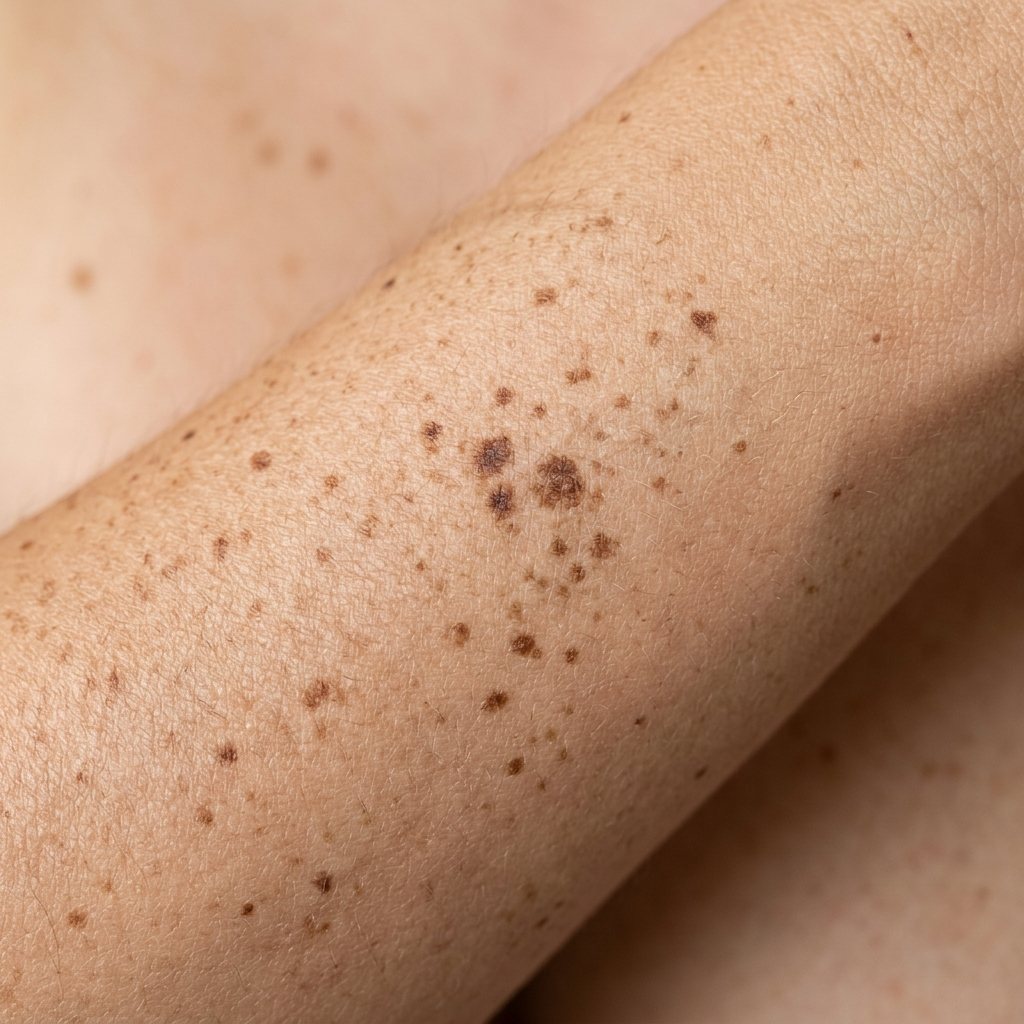
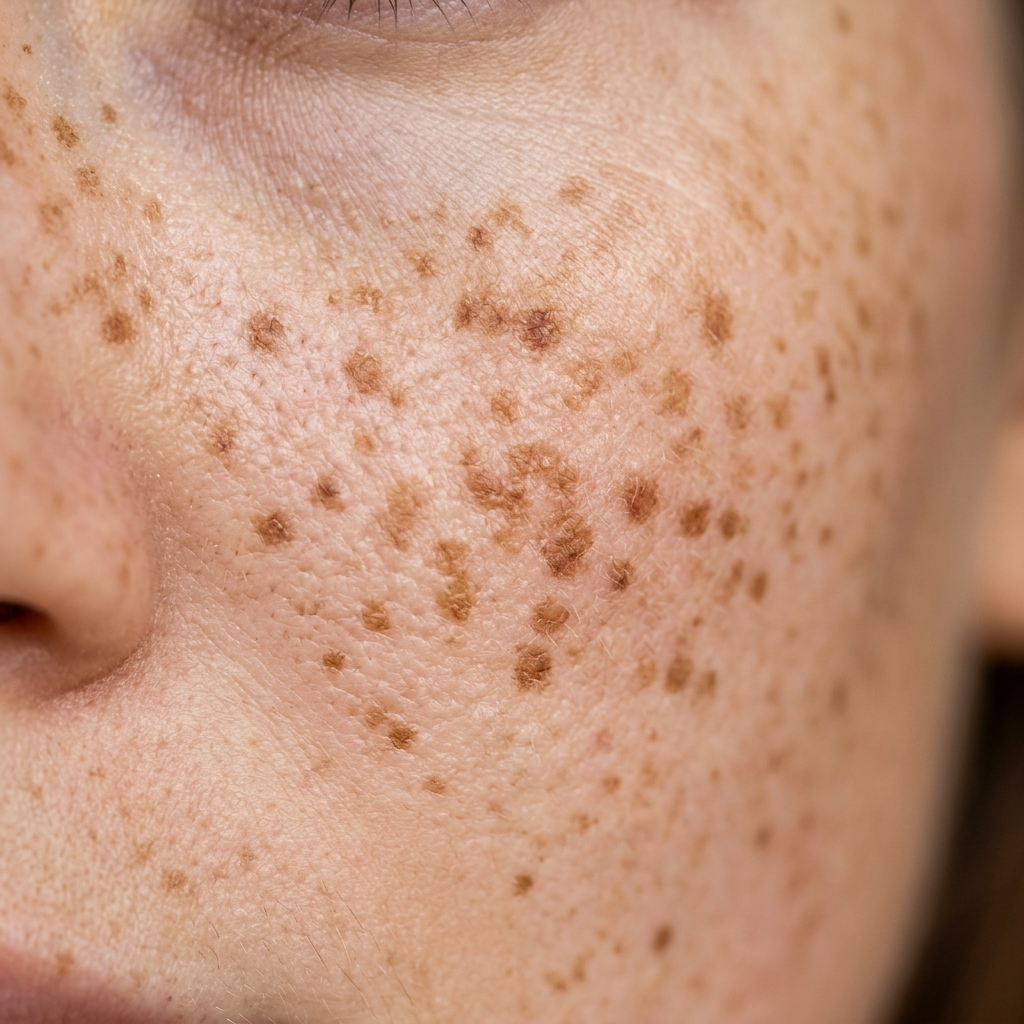
social login by firebase token added

diff --git a/detection/pipeline.py b/detection/pipeline.py
@@ -60,8 +60,8 @@ def sanitize_image_bytes(content: bytes) -> tuple[bytes, str]:
 def _skin_mask(image: np.ndarray) -> np.ndarray:
     """Conservative YCrCb mask; false negatives are safer than background FPs."""
     ycrcb = cv2.cvtColor(image, cv2.COLOR_BGR2YCrCb)
-    lower = np.array([0, 130, 70], dtype=np.uint8)
-    upper = np.array([255, 180, 135], dtype=np.uint8)
+    lower = np.array([0, 120, 60], dtype=np.uint8)
+    upper = np.array([255, 190, 145], dtype=np.uint8)
     mask = cv2.inRange(ycrcb, lower, upper)
     kernel = cv2.getStructuringElement(cv2.MORPH_ELLIPSE, (9, 9))
     return cv2.morphologyEx(mask, cv2.MORPH_CLOSE, kernel)
@@ -109,7 +109,7 @@ def detect_image(path: str | Path, *, max_points: int = 150, skip_nn: bool = Fal
         min_sigma=2,
         max_sigma=min(24, max(4, min(width, height) / 16)),
         sigma_ratio=1.6,
-        threshold=0.02, # Lowered from 0.06 to be more sensitive to lower-contrast freckles
+        threshold=0.01, # Lowered from 0.02 to be more sensitive to lower-contrast freckles
         overlap=0.1,
     )
 
@@ -135,12 +135,11 @@ def detect_image(path: str | Path, *, max_points: int = 150, skip_nn: bool = Fal
         if y2 - y1 < 3 or x2 - x1 < 3: # Too small to analyze
             continue
             
-        # Hue gate
-        patch_hsv = cv2.cvtColor(image_no_hair[y1:y2, x1:x2], cv2.COLOR_BGR2HSV)
-        mean_hue = np.median(patch_hsv[:,:,0])
-        # Reject reds (pimples/irritation)
-        if mean_hue < 5 or mean_hue > 170:
-            continue
+        # Hue gate (Relaxed to allow reddish-brown freckles)
+        # patch_hsv = cv2.cvtColor(image_no_hair[y1:y2, x1:x2], cv2.COLOR_BGR2HSV)
+        # mean_hue = np.median(patch_hsv[:,:,0])
+        # if mean_hue < 5 or mean_hue > 170:
+        #     continue
             
         # Shape metrics (Circularity and Convexity)
         local_signal = signal[y1:y2, x1:x2]
@@ -169,14 +168,14 @@ def detect_image(path: str | Path, *, max_points: int = 150, skip_nn: bool = Fal
         convexity = area / hull_area
         
         # Reject non-circular or non-convex spots (like scars)
-        if circularity < 0.4 or convexity < 0.7:
+        if circularity < 0.2 or convexity < 0.5:
             continue
             
         local = signal[max(0, yi - 2):yi + 3, max(0, xi - 2):xi + 3]
         score = float(np.clip(local.mean() / 255.0, 0.0, 1.0))
         
         # Only keep clearly visible, high-contrast spots
-        if score >= 0.05: # Lowered from 0.15 to allow softer freckles
+        if score >= 0.02: # Lowered from 0.05 to allow softer freckles
             points.append(DetectedPoint(float(x), float(y), radius, score))
 
     # Distance-based NMS to merge close double detections
@@ -232,7 +231,7 @@ def detect_image(path: str | Path, *, max_points: int = 150, skip_nn: bool = Fal
                 probs = exp_out / exp_out.sum()
                 freckle_prob = float(probs[1])
                 
-                if freckle_prob > 0.4: # 40% confidence threshold (lowered from 50% to keep more valid freckles)
+                if freckle_prob > 0.2: # 20% confidence threshold (lowered from 40% to keep more valid freckles)
                     # You could also update the score here if desired
                     final_points.append(filtered_points[i])
         else:

diff --git a/app/services/user_service.py b/app/services/user_service.py
@@ -212,46 +212,42 @@ class UserService:
         }
 
     def socialLogin(self, payload: dict) -> dict:
-        provider = payload.get("provider")
+        # Note: 'token' should now be the Firebase ID Token from the client
         token = payload.get("token")
         
         email = None
         name = None
         provider_id = None
+        provider = None
         
         try:
-            if provider == "google":
-                google_client_id = getattr(settings, "GOOGLE_CLIENT_ID", "")
-                idinfo = id_token.verify_oauth2_token(
-                    token, google_requests.Request(), google_client_id
-                )
-                email = idinfo.get("email")
-                name = idinfo.get("name")
-                provider_id = idinfo.get("sub")
+            from firebase_admin import auth
+            decoded_token = auth.verify_id_token(token)
             
-            elif provider == "apple":
-                decoded = jwt.decode(token, options={"verify_signature": False})
-                email = decoded.get("email")
-                name = payload.get("name") or "Apple User" 
-                provider_id = decoded.get("sub")
-                
-            elif provider == "facebook":
-                url = f"https://graph.facebook.com/me?access_token={token}&fields=id,name,email"
-                response = httpx.get(url)
-                data = response.json()
-                if "error" in data:
-                    raise ValueError(data["error"]["message"])
-                email = data.get("email")
-                name = data.get("name")
-                provider_id = data.get("id")
+            email = decoded_token.get("email")
+            name = decoded_token.get("name")
+            provider_id = decoded_token.get("uid")
+            
+            # Identify which provider the user used to sign into Firebase
+            firebase_info = decoded_token.get("firebase", {})
+            sign_in_provider = firebase_info.get("sign_in_provider")
+            
+            if sign_in_provider == "google.com":
+                provider = "google"
+            elif sign_in_provider == "apple.com":
+                provider = "apple"
+            elif sign_in_provider == "facebook.com":
+                provider = "facebook"
+            else:
+                provider = payload.get("provider", "firebase")
                 
             if not email:
-                raise ValueError("Could not extract email from social provider")
+                raise ValueError("Could not extract email from Firebase token")
                 
         except Exception as e:
             raise HTTPException(
                 status_code=status.HTTP_401_UNAUTHORIZED,
-                detail=f"Invalid social token: {str(e)}"
+                detail=f"Invalid Firebase token: {str(e)}"
             )
 
         user = self.db.query(User).filter(User.email == email).first()
@@ -260,7 +256,7 @@ class UserService:
             base_username = email.split("@")[0]
             
             user = User(
-                user_type=3,
+                role_id=3,
                 name=name,
                 email=email,
                 user_name=base_username,

diff --git a/app/api/routes/auth.py b/app/api/routes/auth.py
@@ -39,7 +39,13 @@ def update_profile(
 def forget_password(user_in: UserForgetPasswordOtp, user_service: UserService = Depends()):
     return user_service.forgetPasswordOtp(user_in.model_dump(by_alias=True))
 
-@router.post("/social-login", response_model=UserResponseWithToken, status_code=status.HTTP_200_OK)
+@router.post(
+    "/social-login", 
+    response_model=UserResponseWithToken, 
+    status_code=status.HTTP_200_OK,
+    summary="Login or Register using Firebase Social Authentication",
+    description="Authenticate a user using a Firebase ID Token. The token is obtained on the client side via the Firebase SDK (e.g. `user.getIdToken()`). The backend verifies this token, automatically infers the social provider (Google, Apple, Facebook), and logs the user in (or registers them if they do not exist)."
+)
 def social_login(user_in: SocialLoginRequest, user_service: UserService = Depends()):
     return user_service.socialLogin(user_in.model_dump(by_alias=True))
 

diff --git a/app/schemas/user.py b/app/schemas/user.py
@@ -34,10 +34,18 @@ class AuthProvider(str, Enum):
     facebook = "facebook"
 
 class SocialLoginRequest(BaseModel):
-    provider: AuthProvider = Field(..., description="The social provider being used")
-    token: str = Field(..., description="The identity token from the provider")
+    provider: Optional[AuthProvider] = Field(default=None, description="The social provider being used (optional, inferred from token)")
+    token: str = Field(..., description="The Firebase ID token retrieved from the client SDK (e.g. user.getIdToken())")
     
-    model_config = ConfigDict(alias_generator=to_camel, populate_by_name=True)
+    model_config = ConfigDict(
+        alias_generator=to_camel, 
+        populate_by_name=True,
+        json_schema_extra={
+            "example": {
+                "token": "eyJhbGciOiJSUzI1NiIs..."
+            }
+        }
+    )
 
 class UserForgetPassword(BaseModel):
     email: EmailStr = Field(..., description="User's email address")

diff --git a/test_db.py b/test_db.py
@@ -1,0 +1,24 @@
+from app.db import SessionLocal
+from app.models.analysis_run import AnalysisRun
+from app.models.point_set import PointSet
+from app.models.match import Match
+from app.models.detection import Detection
+
+db = SessionLocal()
+
+print("--- Recent Analysis Runs ---")
+runs = db.query(AnalysisRun).order_by(AnalysisRun.id.desc()).limit(5).all()
+for run in runs:
+    print(f"\nAnalysis ID: {run.id}, Upload ID: {run.upload_id}, Status: {run.status}")
+    
+    ps = db.query(PointSet).filter(PointSet.upload_id == run.upload_id).first()
+    if ps:
+        print(f"  PointSet: N_points: {ps.n_points}")
+    else:
+        print("  PointSet: None")
+        
+    m = db.query(Match).filter(Match.upload_id == run.upload_id).first()
+    if m:
+        print(f"  Match: ID: {m.id}, Confidence: {m.confidence_pct}")
+    else:
+        print("  Match: None")

diff --git a/workers/tasks/analysis_tasks.py b/workers/tasks/analysis_tasks.py
@@ -98,12 +98,18 @@ def process_detection_job(analysis_id: int):
             run.status = "success"
             db.commit()
             
+            return {
+                "points_detected": len(result.points),
+                "matched": len(result.points) >= 4 and bool(matches)
+            }
+            
         except Exception as e:
             db.rollback()
             run.status = "failed"
             db.commit()
             print(f"Error in detection pipeline for analysis {analysis_id}: {e}")
             traceback.print_exc()
+            return {"error": str(e)}
             
     finally:
         db.close()

diff --git a/workers/tasks/run_matching.py b/workers/tasks/run_matching.py
@@ -121,12 +121,18 @@ def process_matching_job(analysis_id: int):
             run.status = "success"
             db.commit()
             
+            return {
+                "matched": bool(matches),
+                "n_matched_stars": best_match.n_matched if matches else 0
+            }
+            
         except Exception as e:
             db.rollback()
             run.status = "failed"
             db.commit()
             print(f"Error in matching pipeline for analysis {analysis_id}: {e}")
             traceback.print_exc()
+            return {"error": str(e)}
             
     finally:
         db.close()

diff --git a/app/services/firebase.py b/app/services/firebase.py
@@ -1,0 +1,16 @@
+import firebase_admin
+from firebase_admin import credentials
+from app.config import settings
+
+_firebase_app = None
+
+def initFirebase():
+    """Call this once at app startup (from main.py's startup/lifespan event)."""
+    global _firebase_app
+    if _firebase_app is None:
+        try:
+            cred = credentials.Certificate(settings.FIREBASE_SERVICE_ACCOUNT_PATH)
+            _firebase_app = firebase_admin.initialize_app(cred)
+            print("Firebase initialized successfully")
+        except Exception as e:
+            print("Failed to initialize Firebase: ", e)

diff --git a/app/config.py b/app/config.py
@@ -21,6 +21,9 @@ class Settings(BaseSettings):
     # JWT Settings
     SECRET_KEY: str = "kjopkp-dkxznjsdiu8833uhd8h8e9j9sc-sjcis9qjo0"
     ACCESS_TOKEN_EXPIRE_MINUTES: int = 60 * 24 * 30  # 30 days
+
+    # Firebase Social Auth
+    FIREBASE_SERVICE_ACCOUNT_PATH: str = "secrets/star-bound-firebase-adminsdk.json"
     
     # Social Auth
     GOOGLE_CLIENT_ID: str | None = None
@@ -31,5 +34,7 @@ class Settings(BaseSettings):
     CELERY_RESULT_BACKEND: str
     
     model_config = SettingsConfigDict(env_file=".env", case_sensitive=True)
+
+    
 
 settings = Settings()

diff --git a/app/main.py b/app/main.py
@@ -6,10 +6,13 @@ from app.config import settings
 from app.api.routes import uploads, analyses, skymap, auth, admin
 import app.models # Ensure all SQLAlchemy models are registered
 
+from app.services.firebase import initFirebase
+
 @asynccontextmanager
 async def lifespan(app: FastAPI):
     # Startup hook
     print(f"Starting {settings.PROJECT_NAME}...")
+    initFirebase()
     yield
     # Shutdown hook
     print(f"Shutting down {settings.PROJECT_NAME}...")
